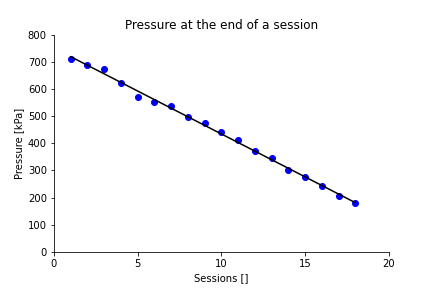
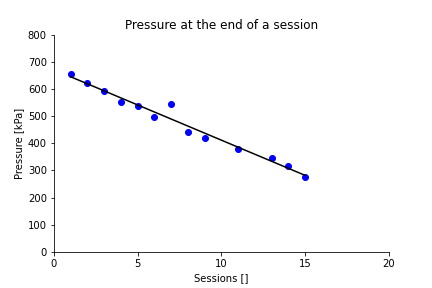
Update to data

diff --git a/repository/CTSCPMAUTO/analysis.py b/repository/CTSCPMAUTO/analysis.py
@@ -46,16 +46,19 @@ data = load_data("L24R1.json")
 conversion_factor = 6.89475729 #psi to kPa
 
 pressure = []
-session = []
+sessions = []
 
 
 for index, session in enumerate(data, 1):
+    survey = session['SURVEY']
     
-    pass
+    if 'PRESSURE' in survey:
+        value = survey['PRESSURE'] * conversion_factor
+        pressure.append(value)
+        sessions.append(index)
 
-pressure = np.array([session['SURVEY']['PRESSURE'] * conversion_factor for session in data])
-pressure[11] = 54 * conversion_factor # Data entry error during the test (these things happens unfortunately)
-sessions = np.array(range(1, len(pressure) + 1))
+pressure = np.array(pressure)
+sessions = np.array(sessions)
 
 # Perform linear regression on the data in order to acount for measurement errors
 # in each individual session.
